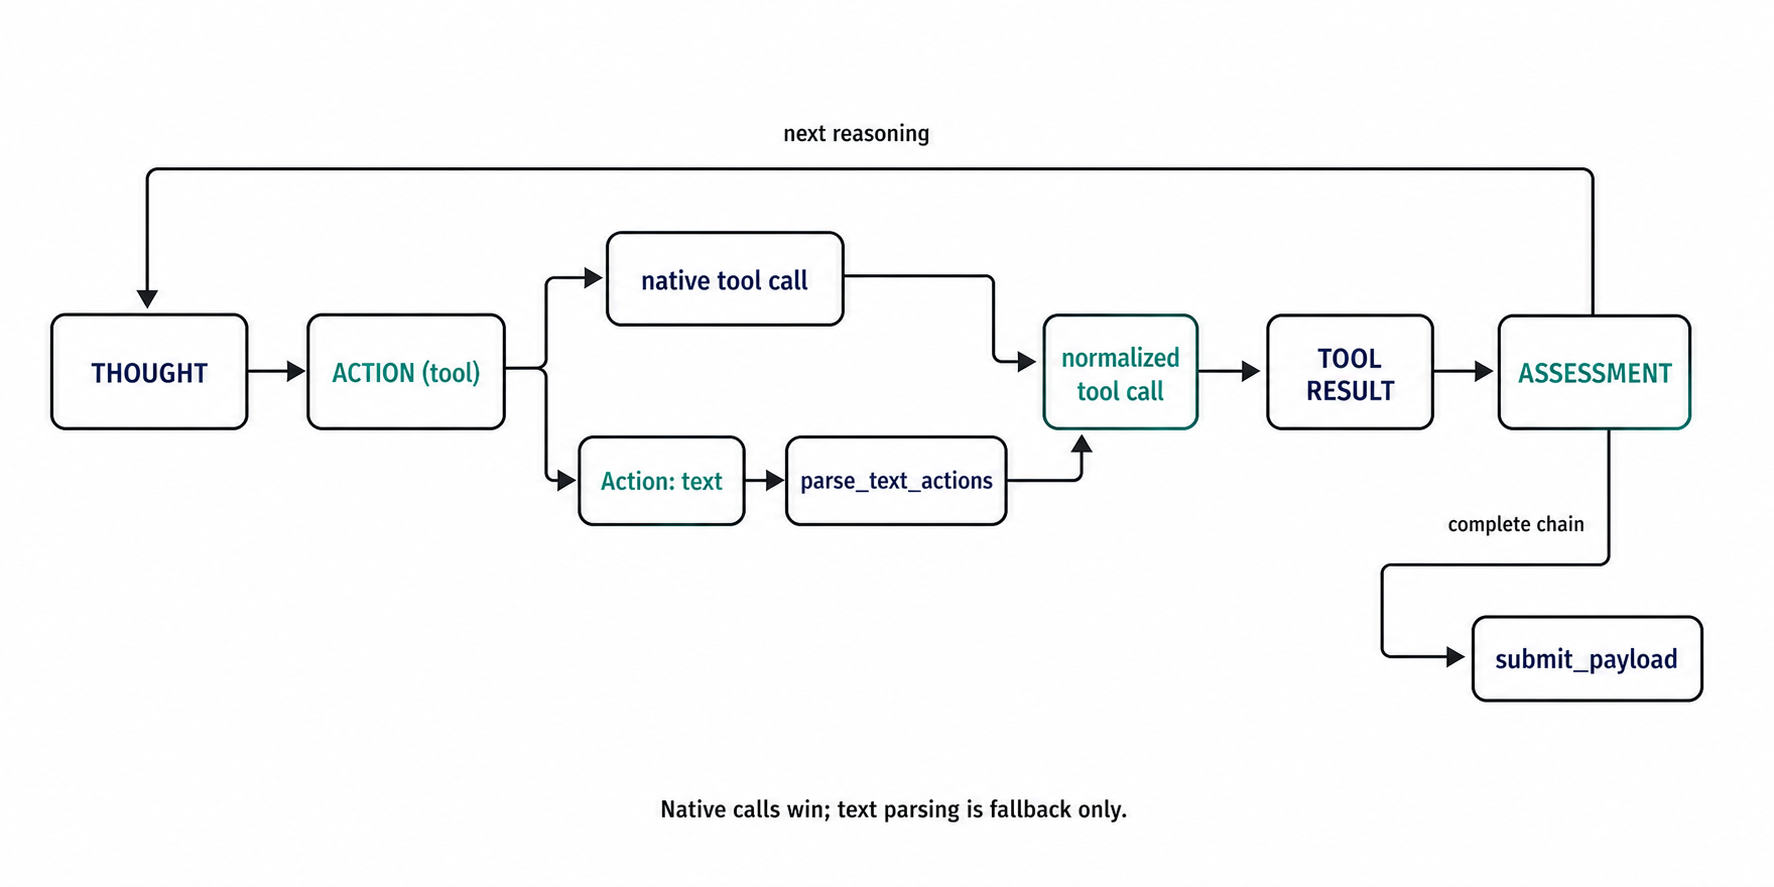
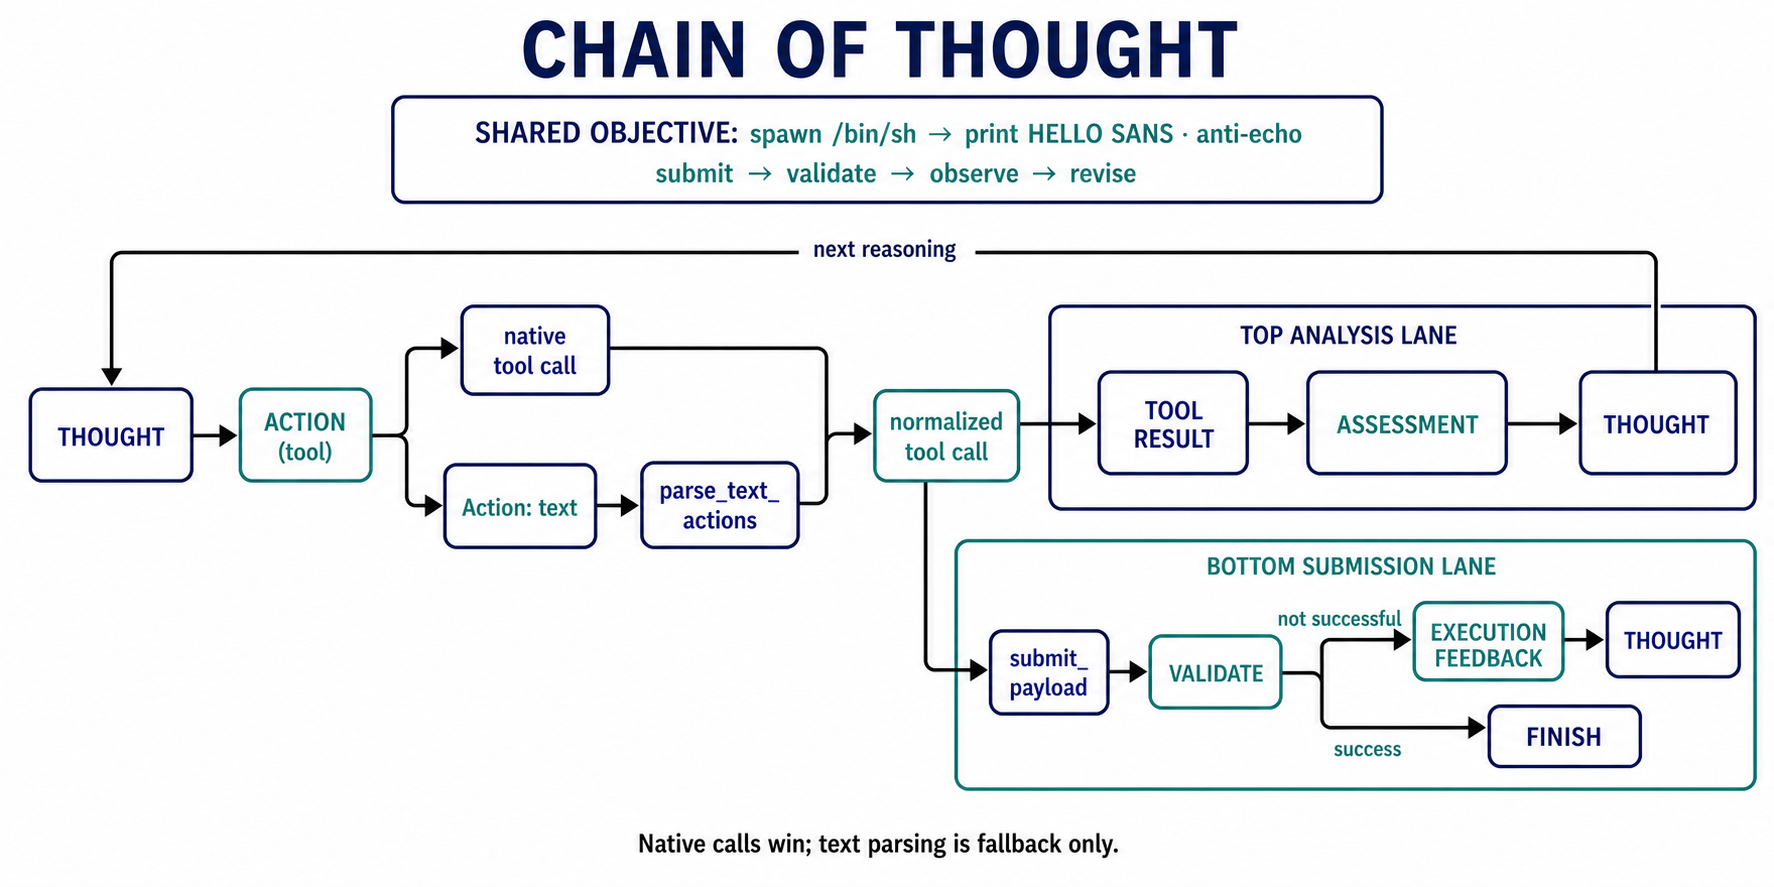
another diagram update for a full run

Changed region(s): [[0.217, 0.3348, 0.9921, 0.9741], [0.0, 0.0, 0.9301, 0.5479]]

diff --git a/docs/images/diagrams/README.md b/docs/images/diagrams/README.md
@@ -4,9 +4,11 @@ This directory contains one clean or layered publication-oriented raster figure
 for each of ten architecture subjects. The discarded contract, journal, and
 blueprint variants have been removed.
 
-The figures reflect ADRs 0010–0012: text-format action recovery, provider-valid
-backend wire formats, and the bounded retry nudge. All figures were checked for
-label and control-flow accuracy against the current working tree.
+The figures reflect the current behavior through ADR 0015: text-format action
+recovery, provider-valid backend wire formats, truncation recovery, iterative
+payload validation, and budget-aware continuation. ADR 0015 supersedes the
+bounded retry-nudge behavior from ADR 0012. All figures were checked for label
+and control-flow accuracy against the current working tree.
 
 ## System architecture
 
@@ -59,32 +61,39 @@ gradients, or 3D effects.
 
 Subject-specific content:
 
-- **System architecture:** four layers, the `RunRecord` contract, validator as
-  sole execution path, action parsing, retry nudges, and provider-valid wire
-  translation.
+- **System architecture:** four layers, `RunRecord`, validator as the sole
+  execution path, action parsing, budget-aware continuation, iterative
+  validation feedback, provider-valid wire translation, and truncation
+  detection.
 - **Experiment data flow:** binary × backend × strategy, five replicates per
   cell, one `RunRecord` per run, `ANY`-success and median aggregation rules,
   refusal separation, paired statistics, and findings.
 - **Experiment configuration:** the exact `experiments.yaml` matrix—10 binaries,
   11 backend handles, four strategies, five replicates, 440 cells and 2,200
-  planned runs—plus per-run limits, hosted-backend cost caps, output directory,
-  and overrides.
+  planned runs—plus the 1,000,000-token and 600-second limits, 100-turn runaway
+  backstop, deprecated/ignored `max_nudges`, hosted-backend cost caps, output
+  directory, and overrides.
 - **Agent loop:** `INGEST → ENUMERATE → REASON`, baseline enumeration as user
-  context, native or parsed text actions, a maximum-two-nudge `REASON` self-loop,
-  submit/give-up through `PROPOSE`, and budget/refusal through `VALIDATE`.
+  context, native or parsed text actions, unconditional budget-aware reasoning
+  continuation, `PROPOSE → VALIDATE`, failed-validation feedback to `REASON`,
+  successful validation through `FINALIZE`, and bounded truncation recovery.
 - **Zero-shot:** task, constraints, and tool descriptions without exemplars or a
-  reasoning scaffold; native/parsed JSON calls; bounded no-tool nudges.
+  reasoning scaffold; native/parsed JSON calls; shared success criteria;
+  iterative submission feedback; and budget-aware continuation.
 - **Chain-of-thought:** `THOUGHT → ACTION`; native calls or `Action:` text parsed
-  by `parse_text_actions`; normalized tool result and assessment loop.
+  by `parse_text_actions`; normalized tool result and assessment loop; shared
+  success criteria; and submit/validate/observe/revise behavior.
 - **ReAct:** `THOUGHT → ACTION → OBSERVATION`, with native/text action
-  normalization and harness-supplied observations.
+  normalization, harness-supplied observations, shared success criteria, and
+  iterative validation feedback.
 - **MAJORCA:** its four original stages and DAG construction, wrapped—not
-  modified—by native/parsed JSON dispatch and bounded nudge behavior.
+  modified—by native/parsed JSON dispatch, budget-aware continuation, shared
+  success criteria, and iterative validation feedback.
 - **Corpus provenance:** high-leakage CGC/cb-multios (4), medium-leakage
   re-authored ISP RAS rop-benchmark targets (5), and low-leakage BroncoCTF
   Proper Pwning (1), followed by build/pin, verification, validation, and the
   universal `HELLO SANS` marker.
 - **LLM backends:** stable `Backend` ABC, lazy registry, premium/open-weight/
   unrestricted categories, provider-specific wire translation, LM Studio as the
-  shared local transport, versioned pricing, and normalized `ChatResponse` plus
-  `CostRecord` output.
+  shared local transport, refusal and truncation detection, versioned pricing,
+  and normalized `ChatResponse` plus `CostRecord` output.
